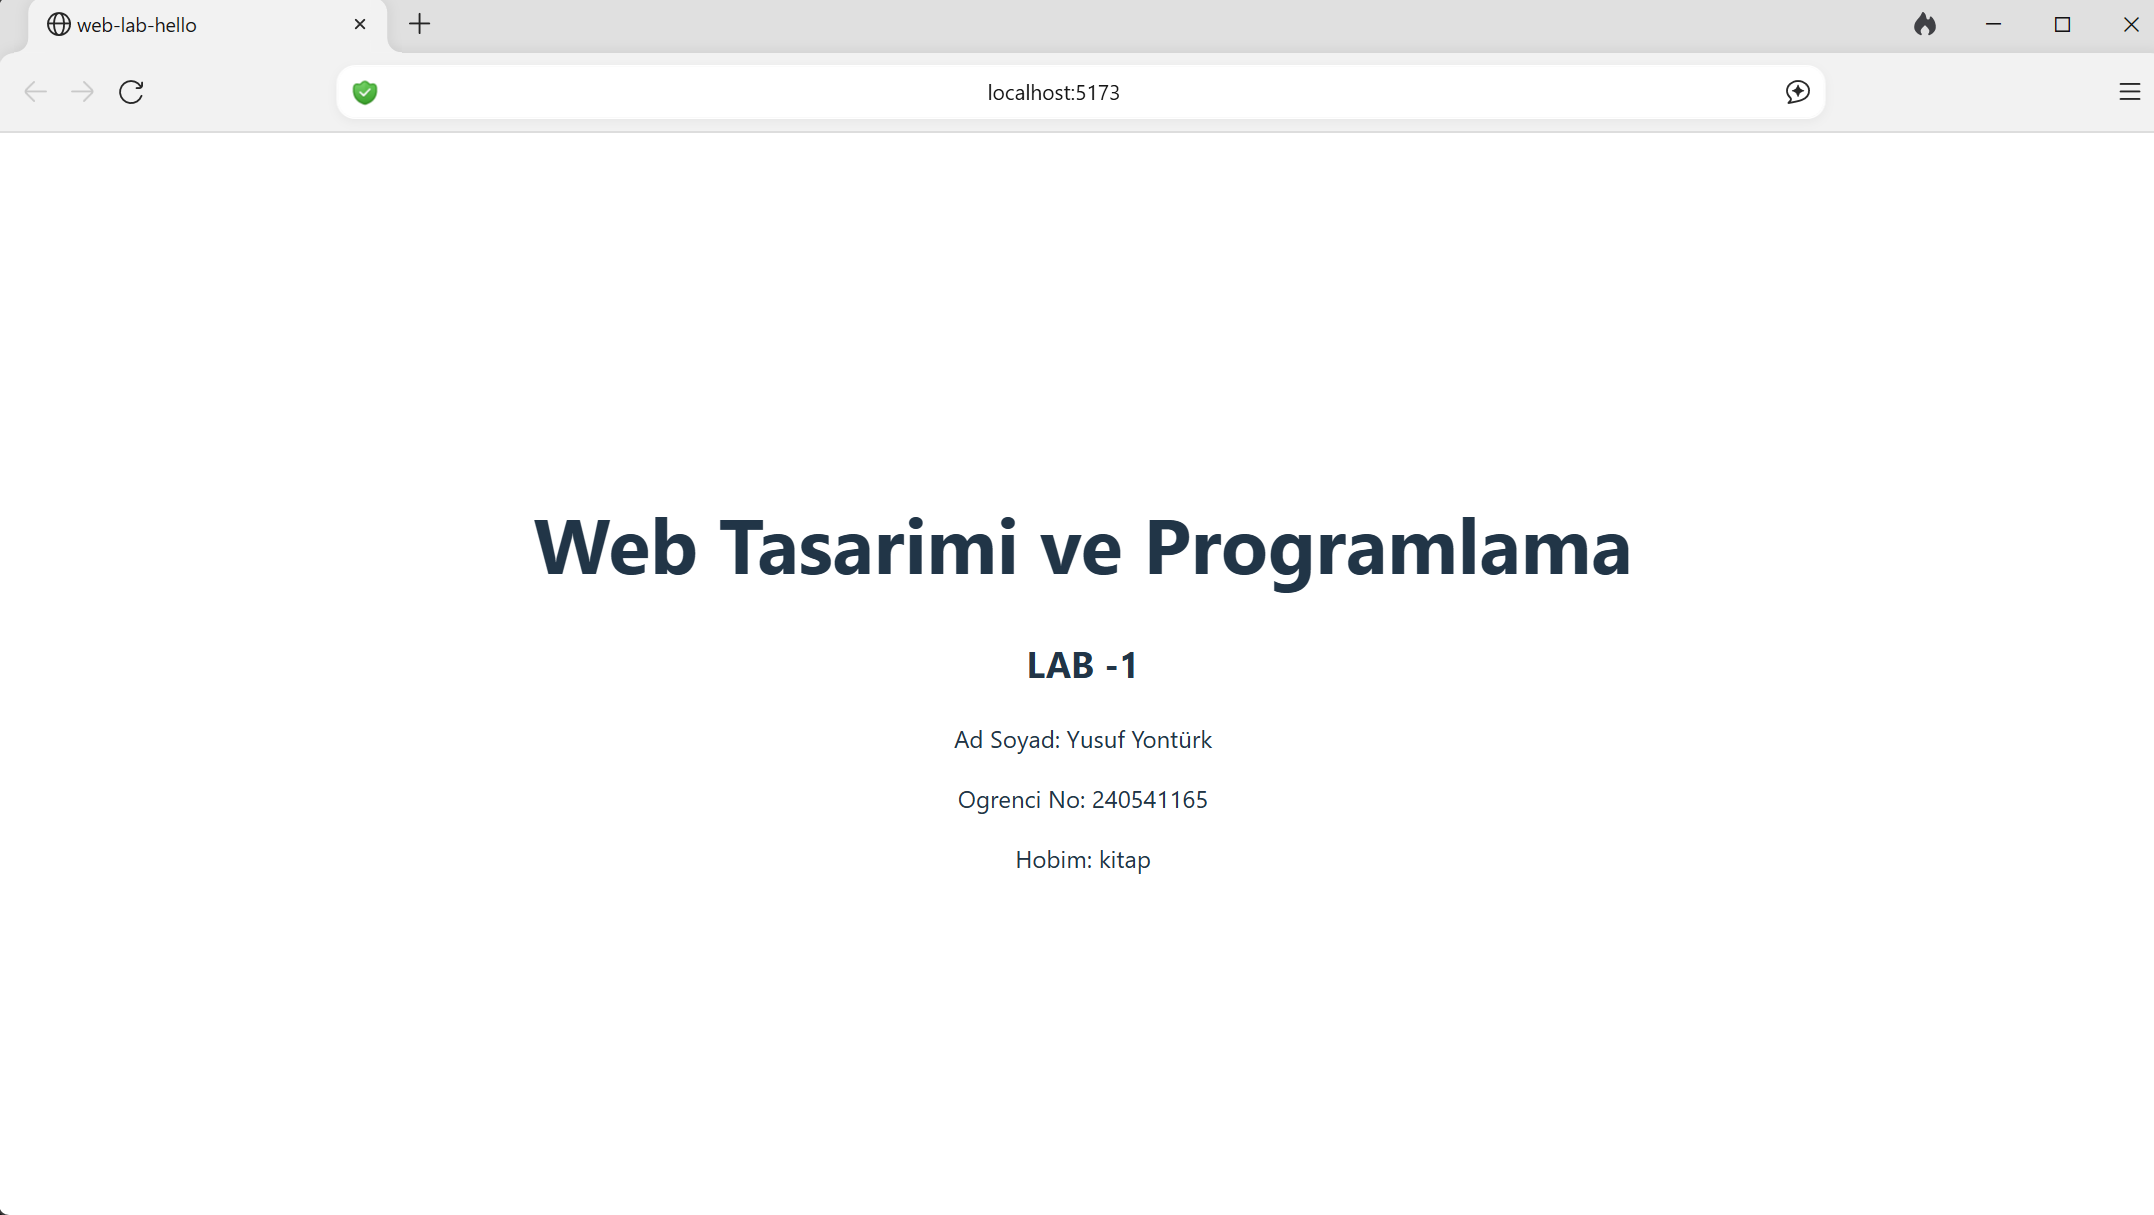
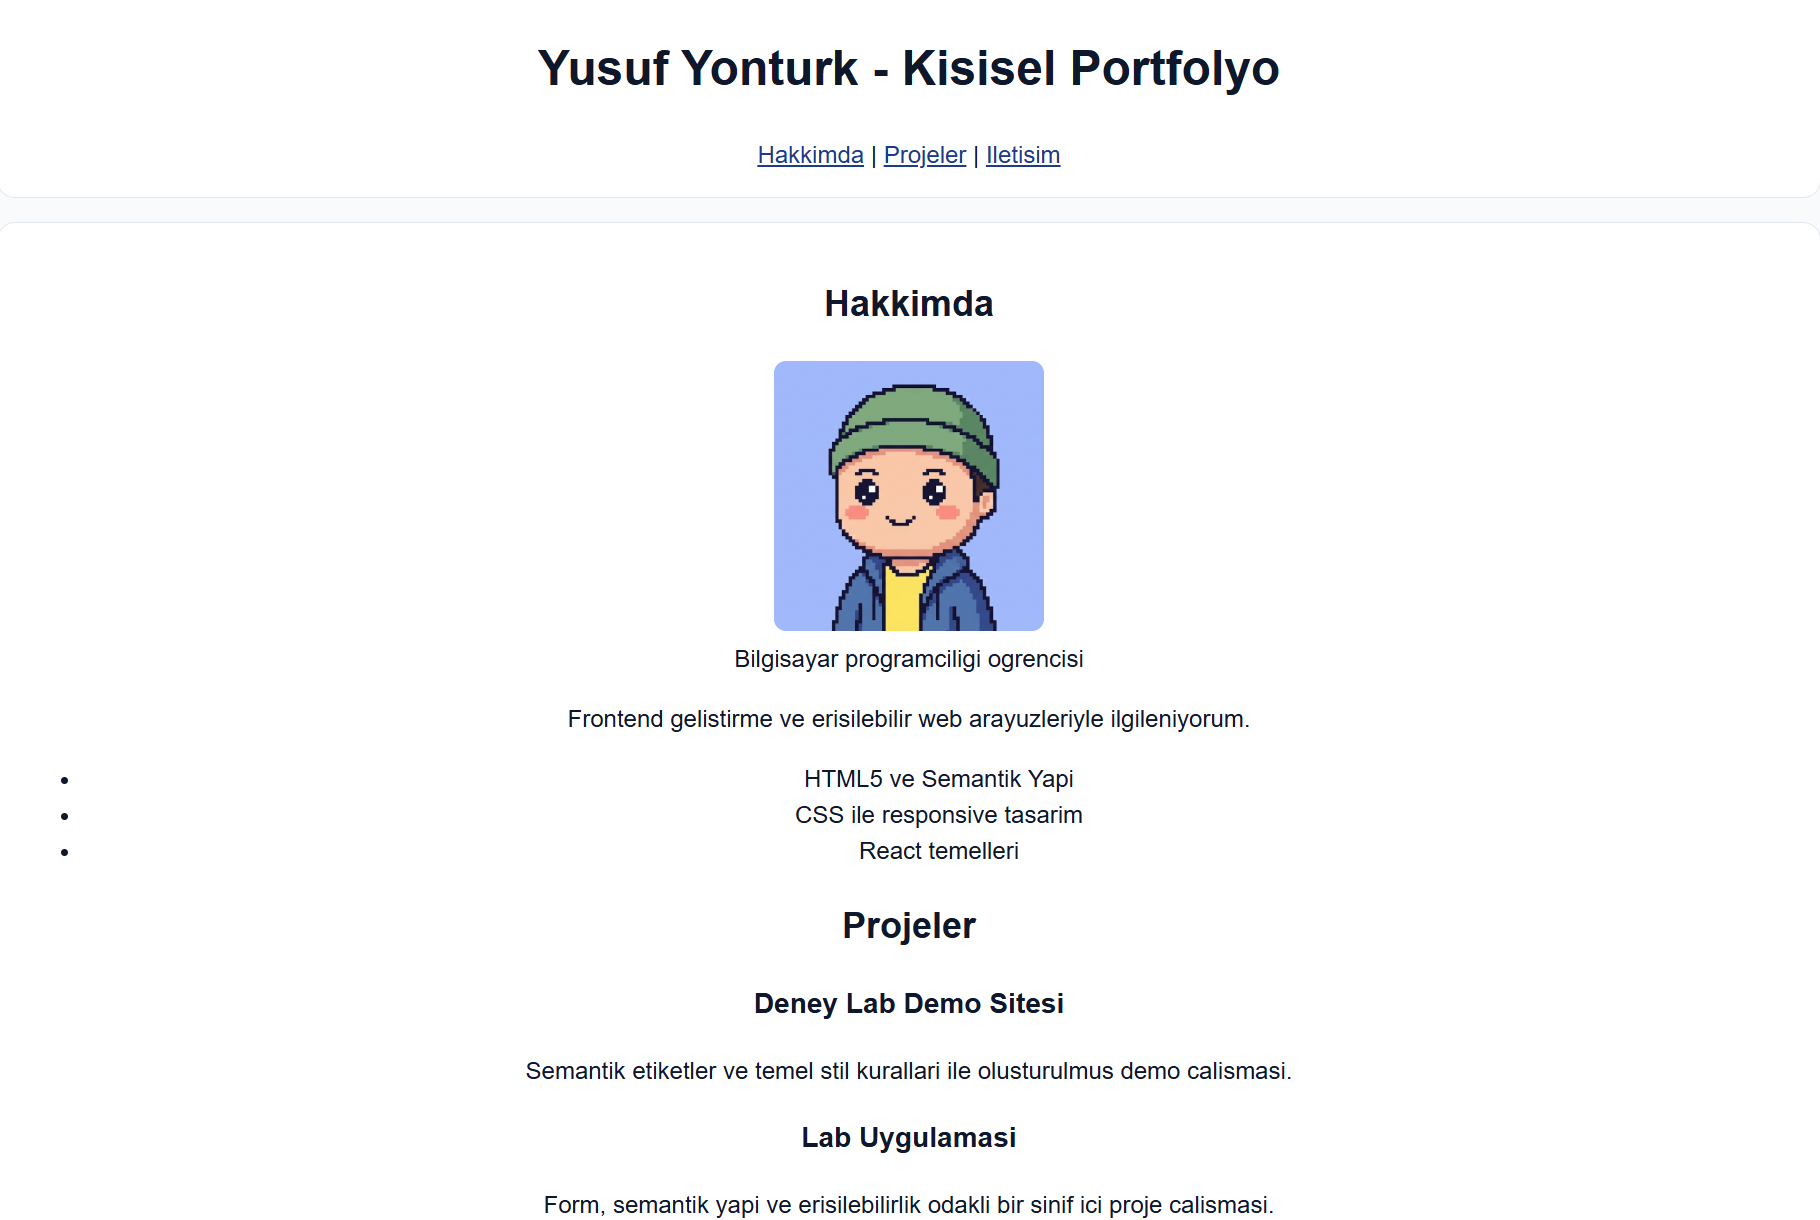
fix: improve a11y based on Lighthouse report

diff --git a/web-lab-hello/src/App.jsx b/web-lab-hello/src/App.jsx
@@ -11,26 +11,31 @@ function App() {
       <header>
         <h1>Yusuf Yonturk - Kisisel Portfolyo</h1>
         <nav aria-label="Sayfa bolumleri">
-          <a href="#about-title">Hakkimda</a> | <a href="#projects-title">Projeler</a> |{' '}
-          <a href="#contact-title">Iletisim</a>
+          <a href="#hakkimda">Hakkimda</a> | <a href="#projeler">Projeler</a> |{' '}
+          <a href="#iletisim">Iletisim</a>
         </nav>
       </header>
 
       <main id="main-content">
-        <section aria-labelledby="about-title">
+        <section id="hakkimda" aria-labelledby="about-title">
           <h2 id="about-title">Hakkimda</h2>
           <figure>
             <img src={profileImage} alt="Yusuf Yonturk profil fotografi" width="180" />
             <figcaption>Bilgisayar programciligi ogrencisi</figcaption>
           </figure>
-          <p>Web teknolojileri ve erisilebilir arayuzler gelistirmekle ilgileniyorum.</p>
+          <p>Frontend gelistirme ve erisilebilir web arayuzleriyle ilgileniyorum.</p>
+          <ul>
+            <li>HTML5 ve Semantik Yapi</li>
+            <li>CSS ile responsive tasarim</li>
+            <li>React temelleri</li>
+          </ul>
         </section>
 
-        <section aria-labelledby="projects-title">
+        <section id="projeler" aria-labelledby="projects-title">
           <h2 id="projects-title">Projeler</h2>
           <article>
             <h3>Deney Lab Demo Sitesi</h3>
-            <p>Temel HTML, CSS ve JavaScript konularini uyguladigim ilk demo calismasi.</p>
+            <p>Semantik etiketler ve temel stil kurallari ile olusturulmus demo calismasi.</p>
           </article>
           <article>
             <h3>Lab Uygulamasi</h3>
@@ -38,13 +43,14 @@ function App() {
           </article>
         </section>
 
-        <section aria-labelledby="contact-title">
+        <section id="iletisim" aria-labelledby="contact-title">
           <h2 id="contact-title">Iletisim</h2>
           <form action="#" method="post" noValidate>
             <fieldset>
               <legend>Iletisim Formu</legend>
               <p id="form-hint">Tum alanlar zorunludur.</p>
 
+              <div className="form-group">
               <label htmlFor="name">Ad Soyad</label>
               <input
                 id="name"
@@ -53,9 +59,12 @@ function App() {
                 required
                 minLength={2}
                 autoComplete="name"
-                aria-describedby="form-hint"
+                aria-describedby="form-hint name-error"
               />
+              <small id="name-error" className="error-msg" role="alert"></small>
+              </div>
 
+              <div className="form-group">
               <label htmlFor="email">E-posta</label>
               <input
                 id="email"
@@ -63,11 +72,14 @@ function App() {
                 type="email"
                 required
                 autoComplete="email"
-                aria-describedby="form-hint"
+                aria-describedby="form-hint email-error"
               />
+              <small id="email-error" className="error-msg" role="alert"></small>
+              </div>
 
+              <div className="form-group">
               <label htmlFor="subject">Konu</label>
-              <select id="subject" name="subject" required defaultValue="">
+              <select id="subject" name="subject" required defaultValue="" aria-describedby="subject-error">
                 <option value="" disabled>
                   Seciniz
                 </option>
@@ -75,7 +87,10 @@ function App() {
                 <option value="soru">Soru</option>
                 <option value="oneri">Oneri</option>
               </select>
+              <small id="subject-error" className="error-msg" role="alert"></small>
+              </div>
 
+              <div className="form-group">
               <label htmlFor="message">Mesajiniz</label>
               <textarea
                 id="message"
@@ -83,8 +98,10 @@ function App() {
                 rows={5}
                 required
                 minLength={10}
-                aria-describedby="form-hint"
+                aria-describedby="form-hint message-error"
               />
+              <small id="message-error" className="error-msg" role="alert"></small>
+              </div>
 
               <button type="submit">Gonder</button>
             </fieldset>

diff --git a/web-lab-hello/src/index.css b/web-lab-hello/src/index.css
@@ -56,6 +56,10 @@ a {
   color: #1e3a8a;
 }
 
+.form-group {
+  margin-bottom: 1rem;
+}
+
 input,
 select,
 textarea,
@@ -79,4 +83,11 @@ button {
 :focus-visible {
   outline: 3px solid #1d4ed8;
   outline-offset: 2px;
+}
+
+.error-msg {
+  color: #b91c1c;
+  font-size: 0.85rem;
+  min-height: 1em;
+  display: block;
 }

diff --git a/web-lab-hello/index.html b/web-lab-hello/index.html
@@ -1,5 +1,5 @@
 <!doctype html>
-<html lang="en">
+<html lang="tr">
   <head>
     <meta charset="UTF-8" />
     <link rel="icon" type="image/svg+xml" href="/vite.svg" />

diff --git a/web-lab-hello/README.md b/web-lab-hello/README.md
@@ -24,4 +24,4 @@
 24 ```
 25 Tarayicida http://localhost:5173 adresini ac.
 ![terminal](image.png)
-![runing](image-1.png)
+![running](image-1.png)
